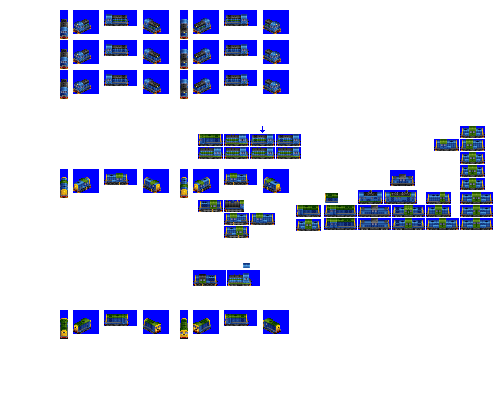
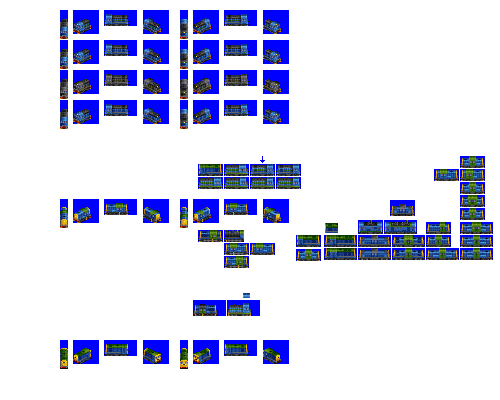
Change: additional black livery for Pika, Captain Steel, Little Bear

Changed region(s): [[0.12, 0.18, 0.99, 0.93], [0.45, 0.18, 0.51, 0.21]]

diff --git a/src/vehicles/pony/captain_steel.py b/src/vehicles/pony/captain_steel.py
@@ -18,7 +18,7 @@ def main(**kwargs):
         tractive_effort_coefficient=0.375,
         random_reverse=True,
         gen=4,
-        liveries=["CLASSIC_LINES", "BANGER_BLUE", "INDUSTRIAL_YELLOW"],
+        liveries=["CLASSIC_LINES", "BANGER_BLUE", "FREIGHT_BLACK", "INDUSTRIAL_YELLOW"],
         sprites_complete=True,
     )
 

diff --git a/src/vehicles/pony/little_bear.py b/src/vehicles/pony/little_bear.py
@@ -19,7 +19,7 @@ def main(**kwargs):
         random_reverse=True,
         gen=4,
         intro_year_offset=-6,
-        liveries=["CONVENTIONAL_WISDOM", "BANGER_BLUE", "INDUSTRIAL_YELLOW"],
+        liveries=["CONVENTIONAL_WISDOM", "BANGER_BLUE", "FREIGHT_BLACK", "INDUSTRIAL_YELLOW"],
         sprites_complete=True,
     )
 

diff --git a/bin/company_colour_remaps.py b/bin/company_colour_remaps.py
@@ -9,12 +9,9 @@ from polar_fox import graphics_units
 # requires a tmp dir to exist, which should be gitignored
 # set the filename
 input_filenames = [
-    "chuggypig",
-    "fireball",
-    "gronk",
-    "grub",
-    "lamia",
-    "progress",
+    "pika",
+    "little_bear",
+    "captain_steel",
 ]
 
 CC1 = 198

diff --git a/src/vehicles/pony/pika.py b/src/vehicles/pony/pika.py
@@ -20,7 +20,7 @@ def main(**kwargs):
         random_reverse=True,
         gen=2,
         intro_year_offset=15,
-        liveries=["BANGER_BLUE", "BANGER_BLUE", "INDUSTRIAL_YELLOW"],
+        liveries=["BANGER_BLUE", "BANGER_BLUE", "FREIGHT_BLACK", "INDUSTRIAL_YELLOW"],
         sprites_complete=True,
     )
 
